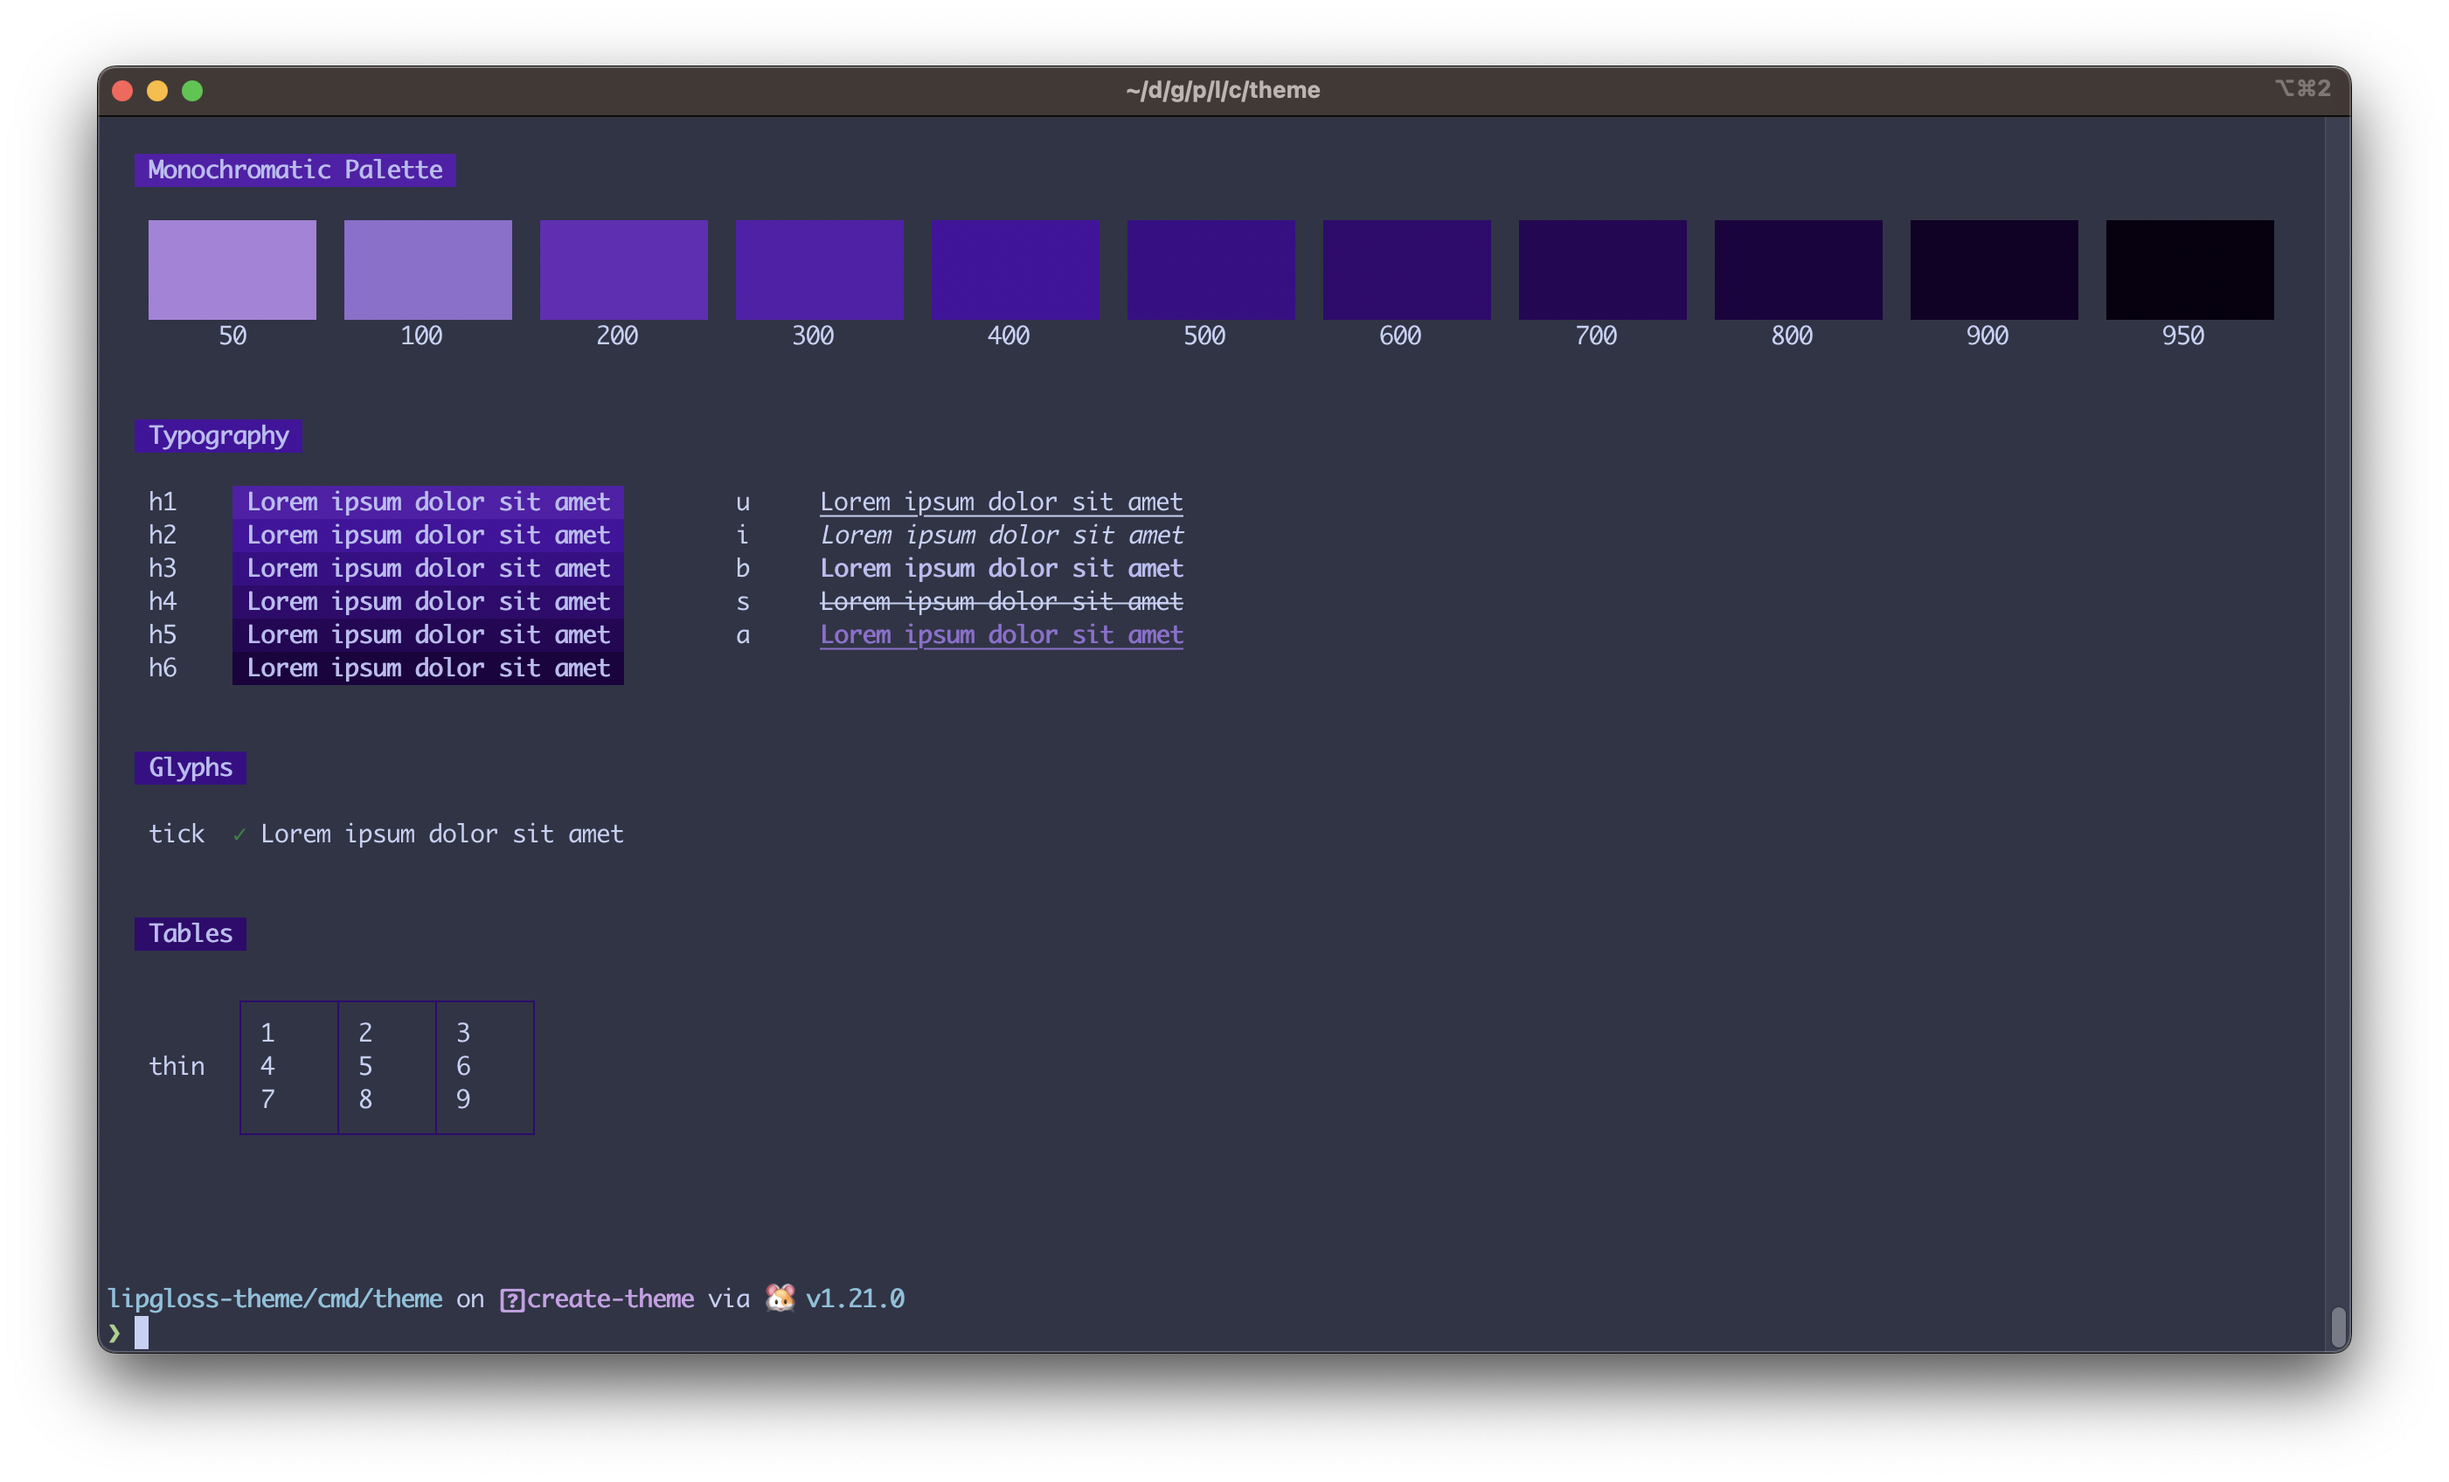
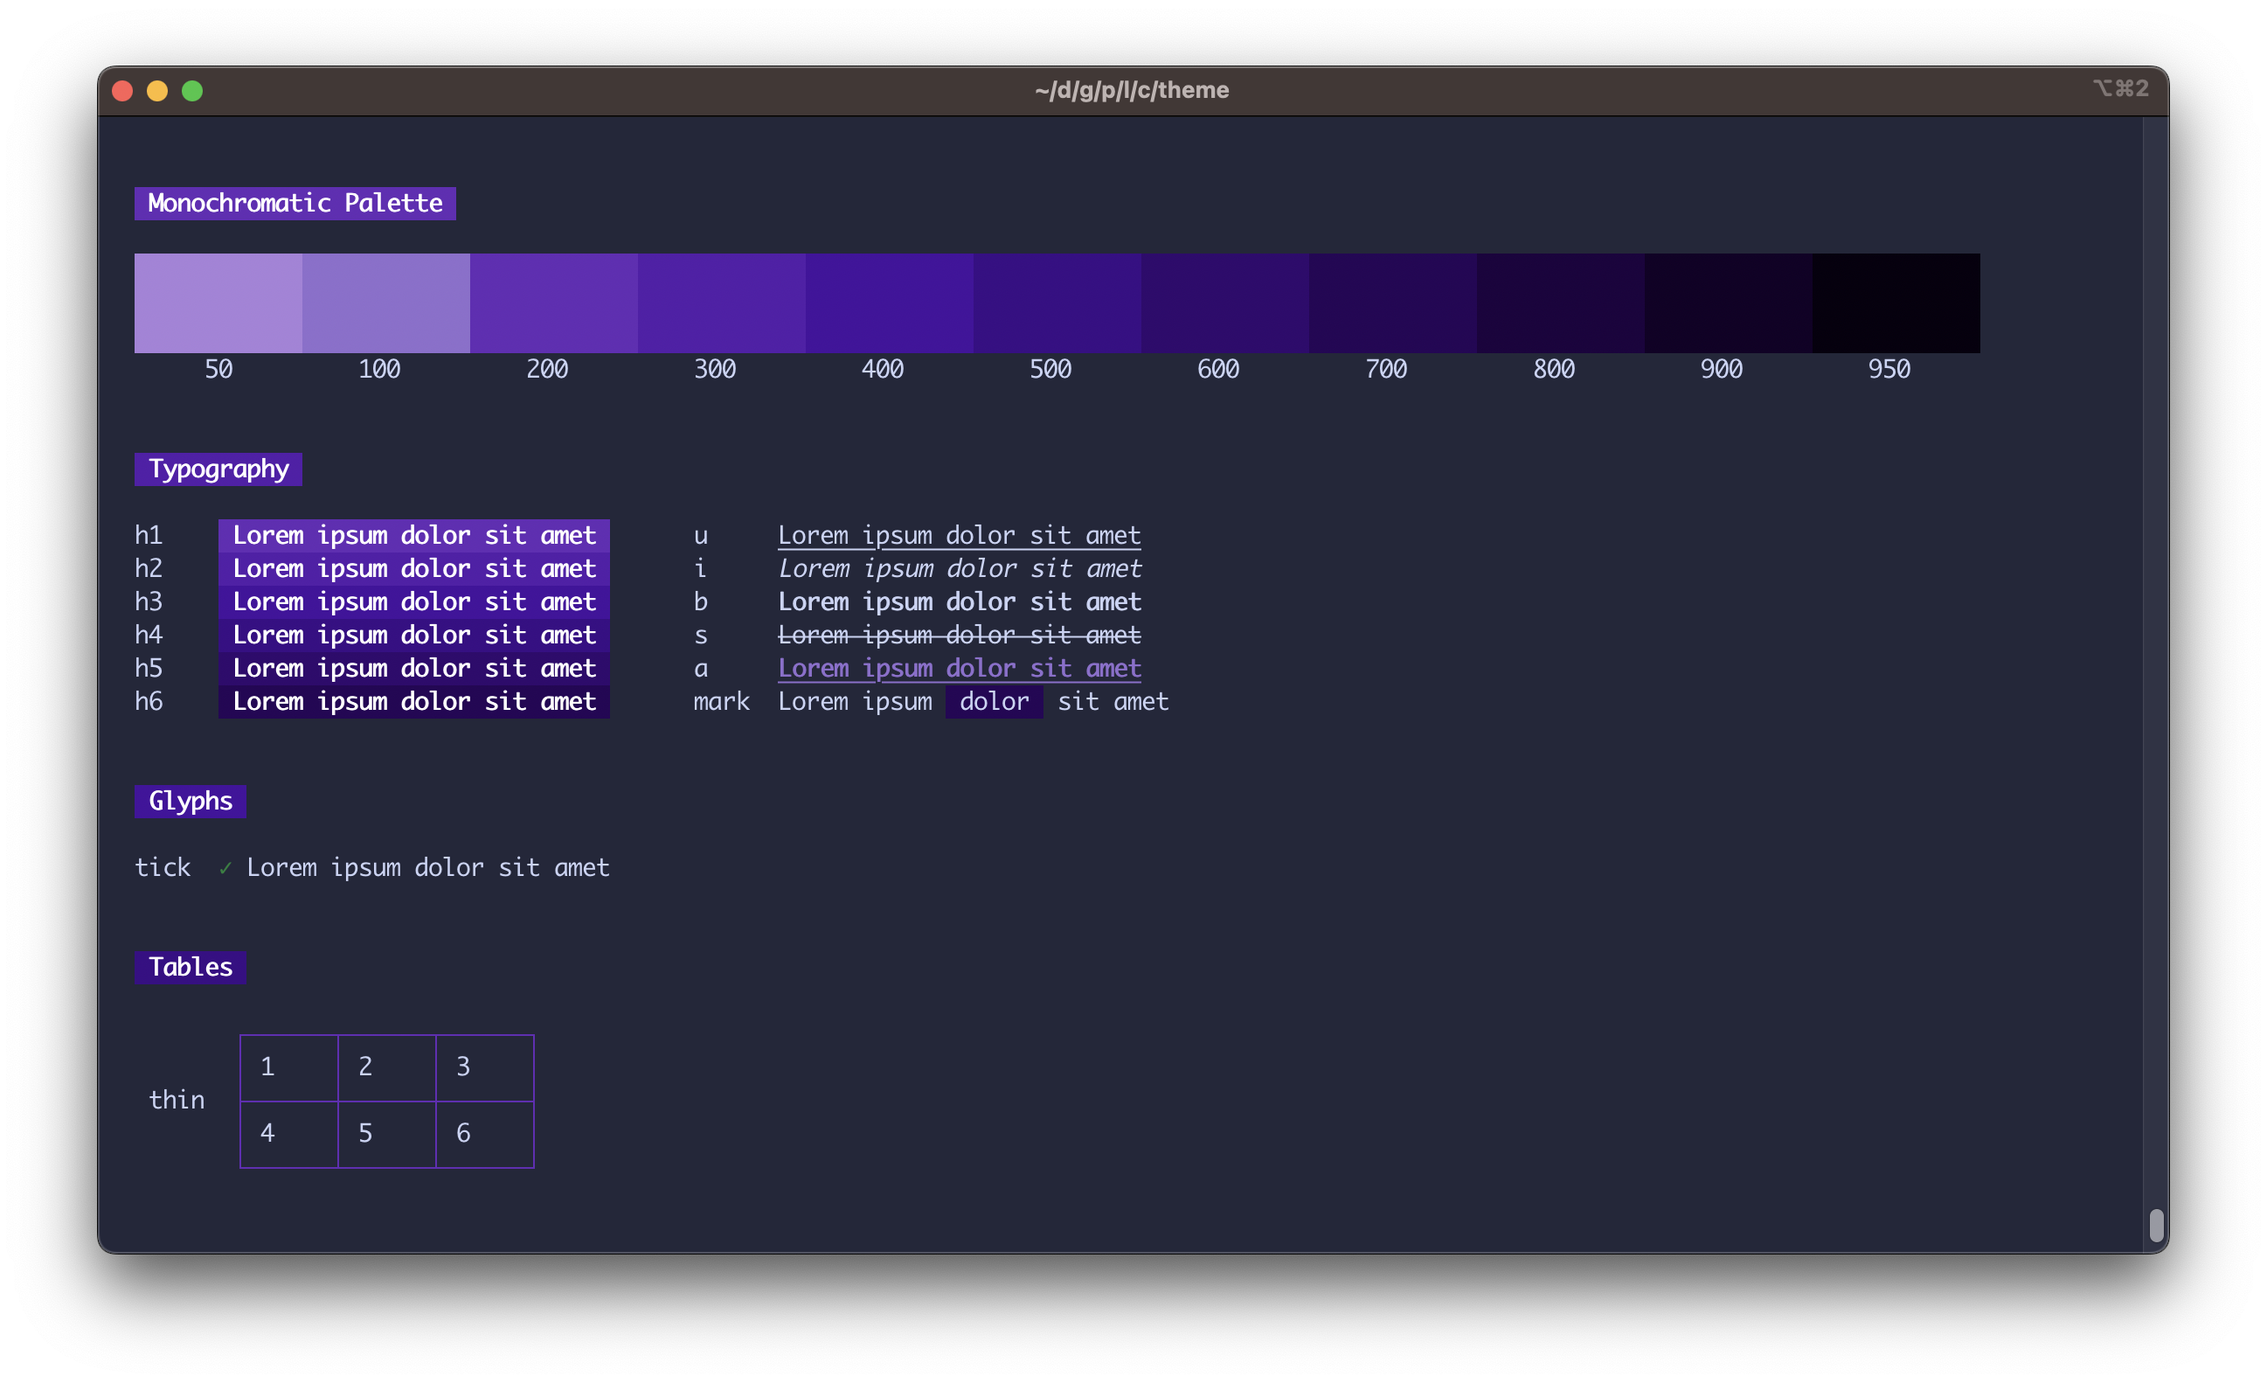
tweak theme for light mode

Changed region(s): [[0.0312, 0.031, 0.968, 0.9292], [0.3435, 0.3407, 0.4996, 0.5265]]

diff --git a/style.go b/style.go
@@ -111,7 +111,7 @@ var (
 		Padding(0, 1).
 		Background(lipgloss.AdaptiveColor{
 			Light: string(S50),
-			Dark:  string(S800),
+			Dark:  string(S700),
 		})
 
 	// I defines a PurpleClay themed hyperlink that supports both light and dark terminals

diff --git a/README.md b/README.md
@@ -2,6 +2,10 @@
 
 A lipgloss theme designed to give a consistent look and feel across all PurpleClay TUIs.
 
-## Dark Terminal
+## Dark
 
 ![Dark Terminal Support](./images/dark-terminal.png)
+
+## Light
+
+![Light Terminal Support](./images/light-terminal.png)
